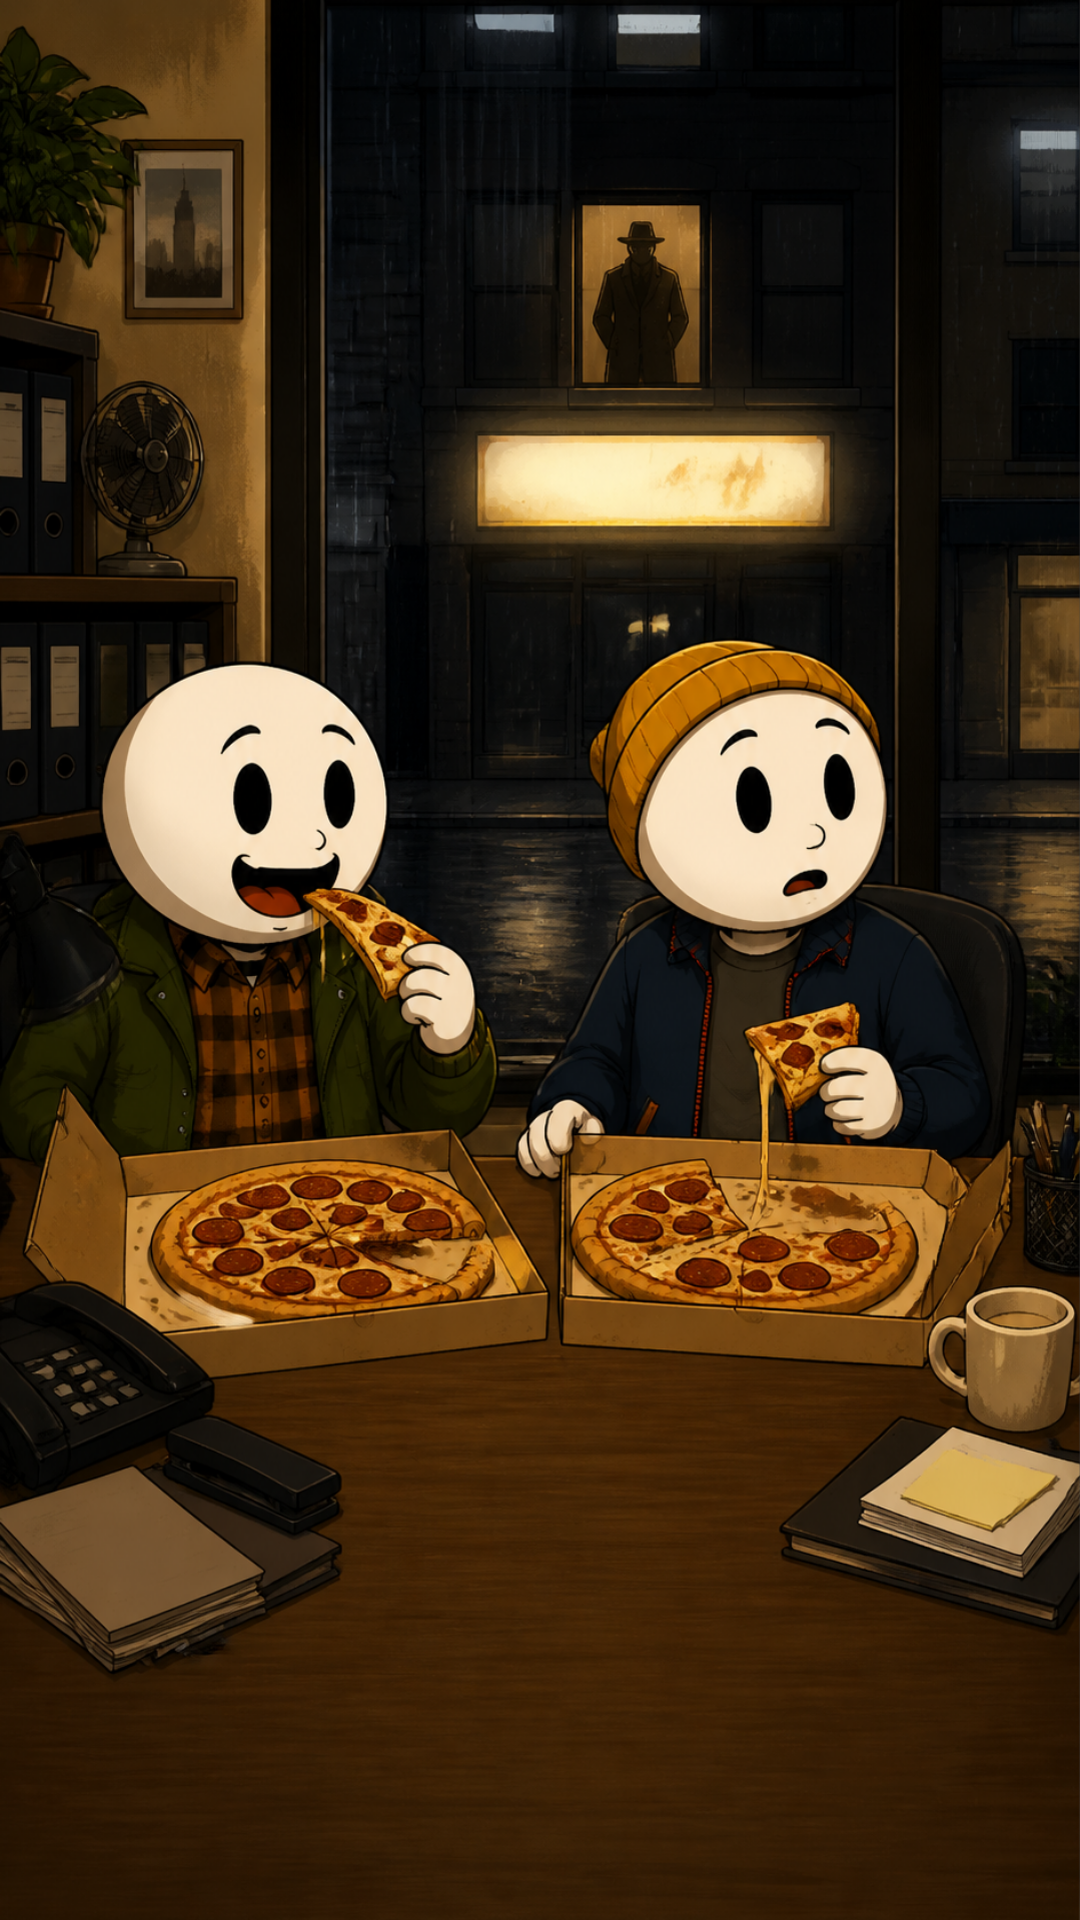
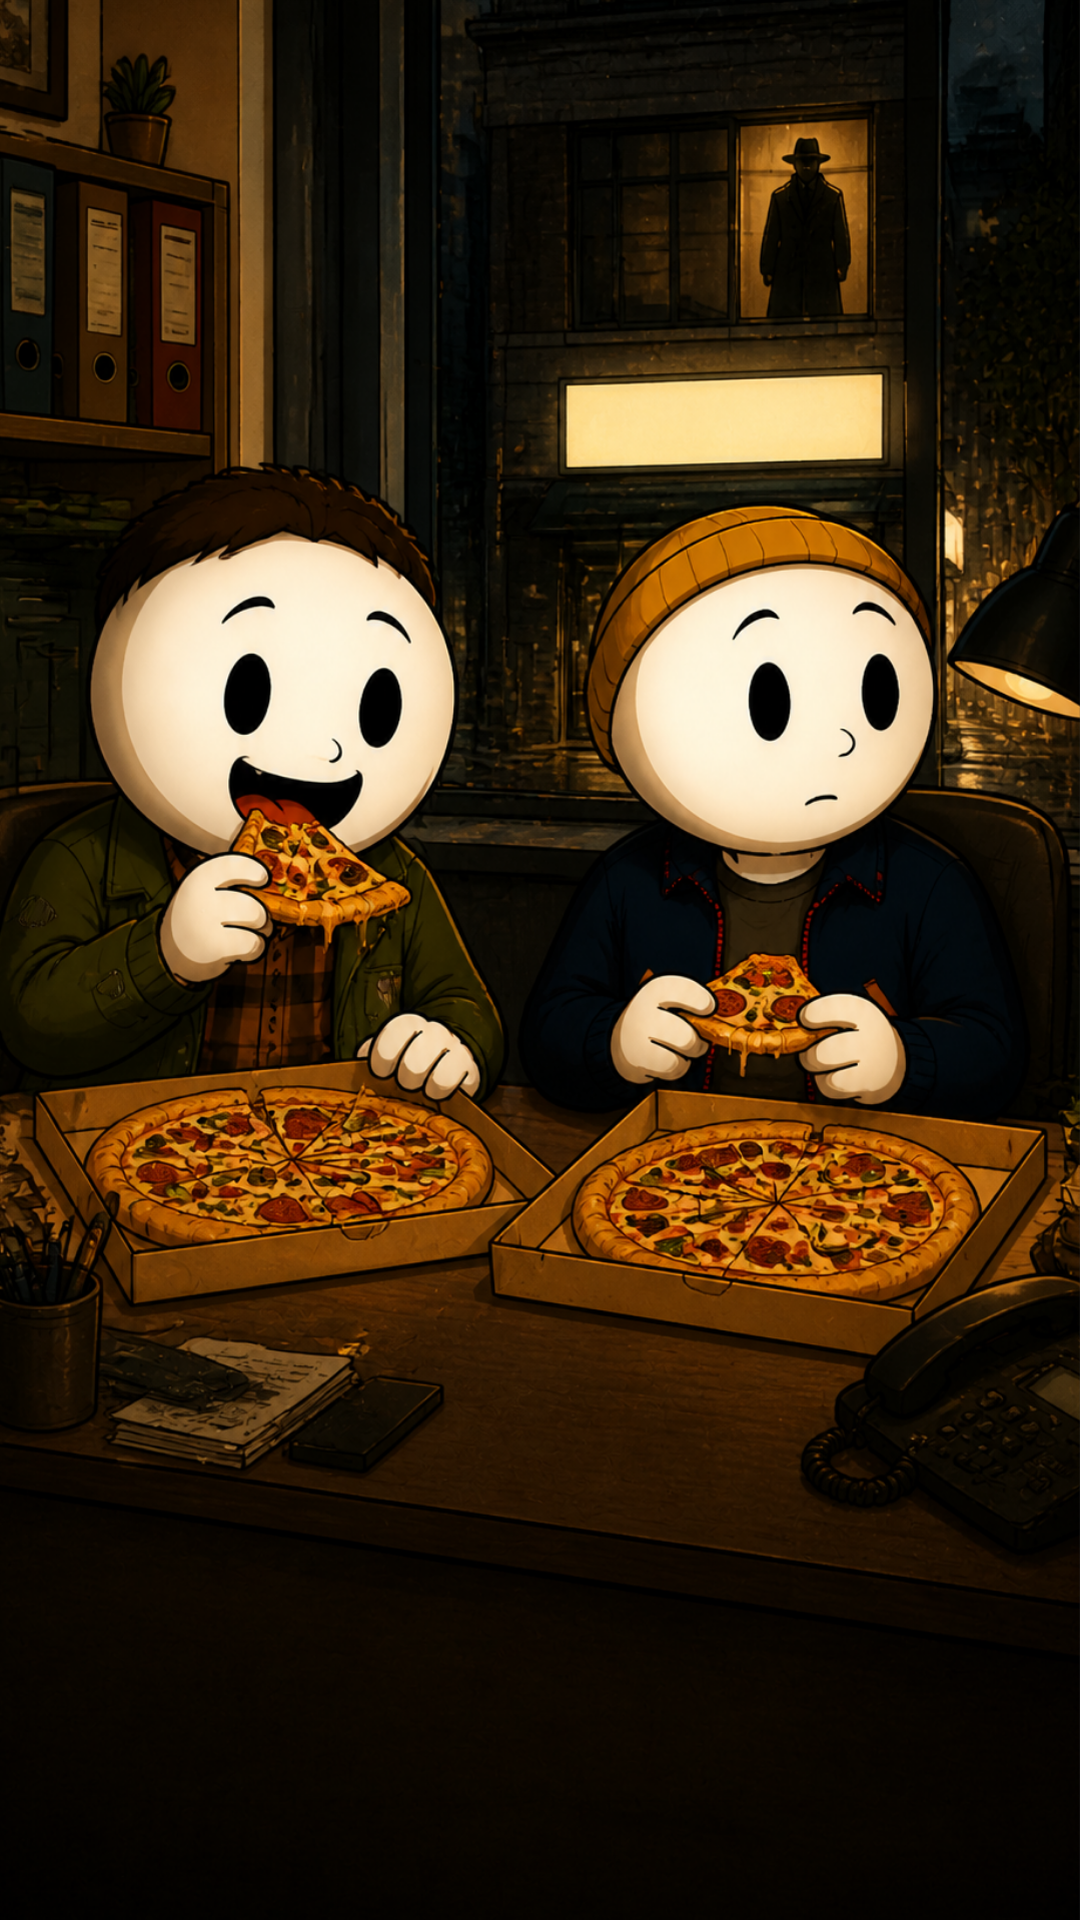
Bölüm 17: Cemil saç sürekliliği düzeltildi (s04, s05, s15)
Claude-Session: https://claude.ai/code/session_014JxJGDekTQeiZJynemFY6T

diff --git a/public/episodes/bolum17-dokunma/uretim-notlari.md b/public/episodes/bolum17-dokunma/uretim-notlari.md
@@ -11,7 +11,9 @@ Görsel: s04 MAHbPtNQhAk (pizza + GELECEK A.Ş.), s05 MAHbPtwJwVg (halka arz).
 AYAKKABI: Selim 16. bölümden beri kırmızı-beyaz ayakkabılı. Yeni referans MAHbPiXbzbg (ep16 s10 alt kısmı). Eski s01-s05 (mavi terlik) iptal, yeniden üretiliyor.
 
 ## Ayakkabılı görseller (Canva media id)
-s01 MAHbPnrVTRg · s02 MAHbPvz4OE0 · s03 MAHbPiOtBpg · s04 MAHbPsfxwQ0 · s05 MAHbPoHF8VU
+s01 MAHbPnrVTRg · s02 MAHbPvz4OE0 · s03 MAHbPiOtBpg · s04 MAHbPhzMDTk · s05 MAHbPijd_lY
 s06 MAHbPp5q0gQ · s07 MAHbPprJUmA · s08 MAHbPpXgRKc · s09 MAHbPsy8Ok4 · s10 MAHbPp8TzPs
-s11 MAHbPhq12PQ · s12 MAHbPnVAYVM · s13 MAHbPnYWMDE · s14 MAHbPnLg7yQ · s15 MAHbPpgbu2Y
+s11 MAHbPhq12PQ · s12 MAHbPnVAYVM · s13 MAHbPnYWMDE · s14 MAHbPnLg7yQ · s15 MAHbPgbXr9M
 Tasarım DAHbKwFlLj4 sayfa 28–42.
+
+Cemil süreklilik: s01–s02 kel (ekim öncesi), s03 sargılı, s04+ kahverengi kıvırcık saçlı.
